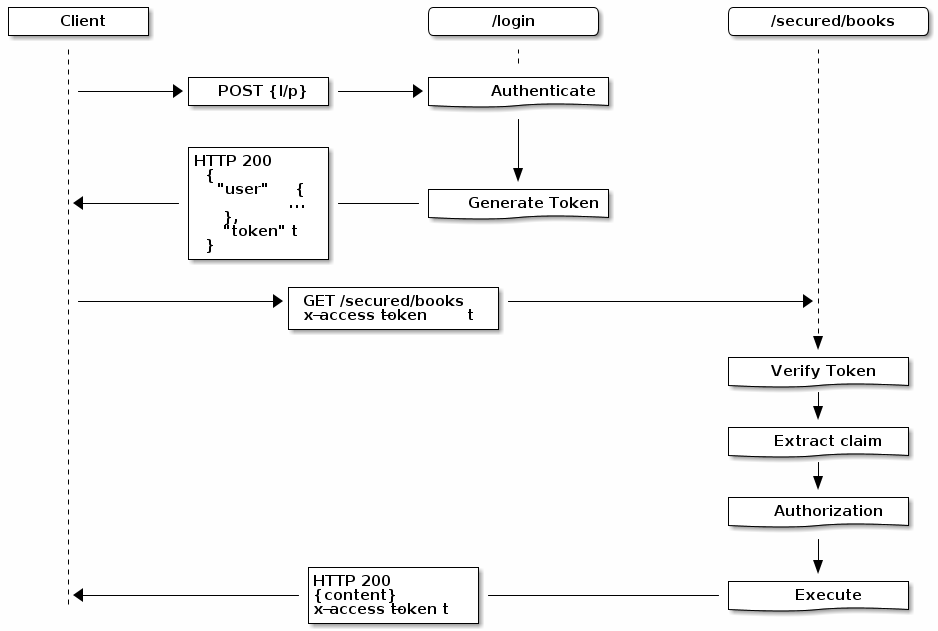
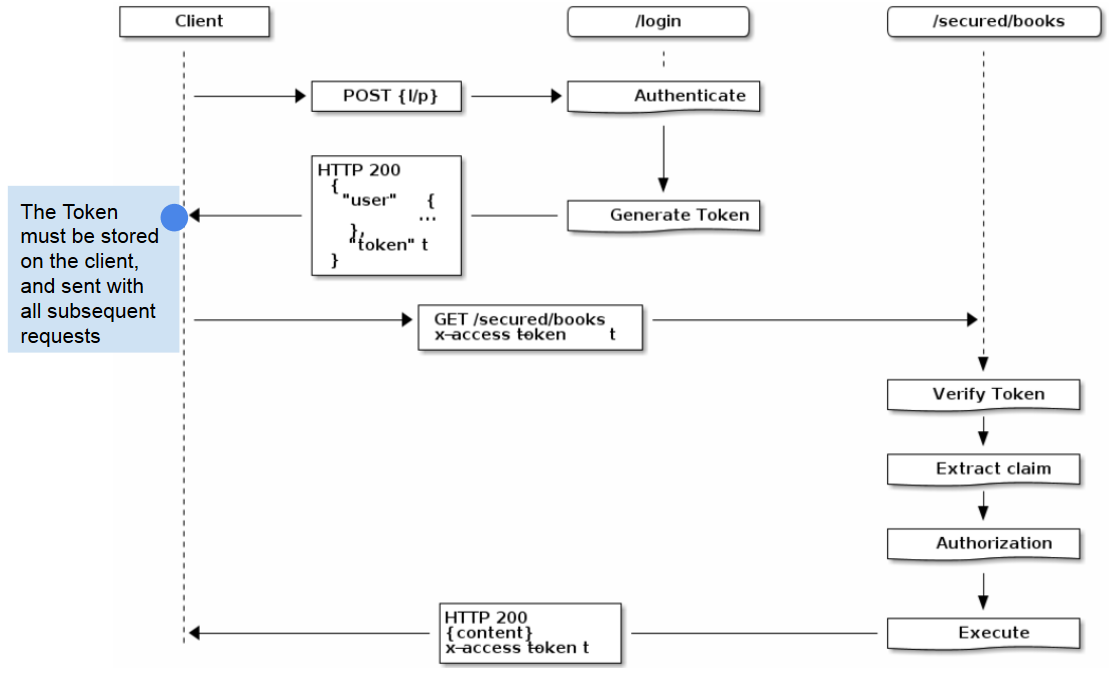
security

diff --git a/public/security/security.html b/public/security/security.html
@@ -59,7 +59,7 @@
 
   <slide>
     <hgroup>
-      <h2 style="font-size: 1.65em;">Will the Seed provide totally secure API's?</h2>
+      <h2 style="font-size: 1.4em;">Will what we learn todat totally secure our API's?</h2>
     </hgroup>
 
     <article>
@@ -104,7 +104,7 @@
 
   <slide>
     <hgroup>
-      <h2>The goal (requirements) for the seed?</h2>
+      <h2 style="font-size: 1.5em;">The security requirements for today and CA3?</h2>
     </hgroup>
 
     <article>
@@ -121,7 +121,7 @@
         <li>Parts of the API might need to be accessed by other servers</li>
       </ul>
       <img src="images/disclaimer.PNG" style="width:25%;">
-      <p>I have not had enough time, and external reviewers to provide a "production" guarantee for the seed</p>
+      <p>I have not had enough time, and external reviewers to provide a "production" guarantee for the exercises given today</p>
       <p>It's meant for examples in the classroom</p>
     </article>
   </slide>
@@ -343,7 +343,7 @@ HMACSHA256(
     </hgroup>
 
     <article>
-      <img style="margin-top: -35px;margin-left:5%;width:72%;" src="images/jsonwebtoken.png">
+      <img style="margin-top: -35px;margin-left:5%;width:80%;" src="images/jsonwebtoken.png">
 
       <p style="font-size: 0.8em;"><a href="http://scytl.github.io/restguide/#_security">
         http://scytl.github.io/restguide/#_security</a></p>
@@ -356,8 +356,11 @@ HMACSHA256(
       <h3></h3>
     </hgroup>
     <article>
-     <p>For this semester, just use the seed as it is</p>
-
+     <ul>
+     <li>Web Storage (local storage/session storage)</li>
+     <li>Cookies</li>
+     </ul>
+     <p>Read here for more <a href="https://auth0.com/docs/security/store-tokens">info</a></p>
     </article>
   </slide>
 
@@ -530,14 +533,14 @@ HMACSHA256(
 
   <slide>
     <hgroup>
-      <h2>Hashing Passwords with the seed</h2>
+      <h2>Hashing Passwords today and in CA3</h2>
       <h3></h3>
     </hgroup>
-    <article style="margin-top: 0px;">
-      <p>This is what you have to add to the seed</p>
-      <p>See exercise for today, and use this class to do the "hard work"</p>
-      <a href="https://github.com/defuse/password-hashing/blob/master/PasswordStorage.java">
-        https://github.com/defuse/password-hashing/blob/master/PasswordStorage.java
+    <article>
+      <p>You should use the brypt algorithm</p>
+      <p>There are several java implementations of this algorithm, we suggest <b>jbrypt</b></p>
+      <a href="https://www.mindrot.org/projects/jBCrypt/">
+        https://www.mindrot.org/projects/jBCrypt/
       </a>
 
     </article>

diff --git a/public/security/slide_config.js b/public/security/slide_config.js
@@ -1,9 +1,9 @@
 var SLIDE_CONFIG = {
   // Slide settings
   settings: {
-    title: 'Security-2',
+    title: 'Security',
     subtitle: 'Authentication in SinglePage/App-Applications and handling passwords',
-    date: 'Spring - 2017',
+    date: 'Spring - 2018',
     //eventInfo: {
     //  title: 'Google I/O',
     //  date: '6/x/2013'

diff --git a/public/index.html b/public/index.html
@@ -40,6 +40,11 @@
       <td></td>
     </tr>
 
+    <tr>
+      <td><a href="security/security.html">Authentication in SPA's and how to handle passwords</a></td>
+      <td></td>
+    </tr>
+
   </table>
 </div>
 </body>
